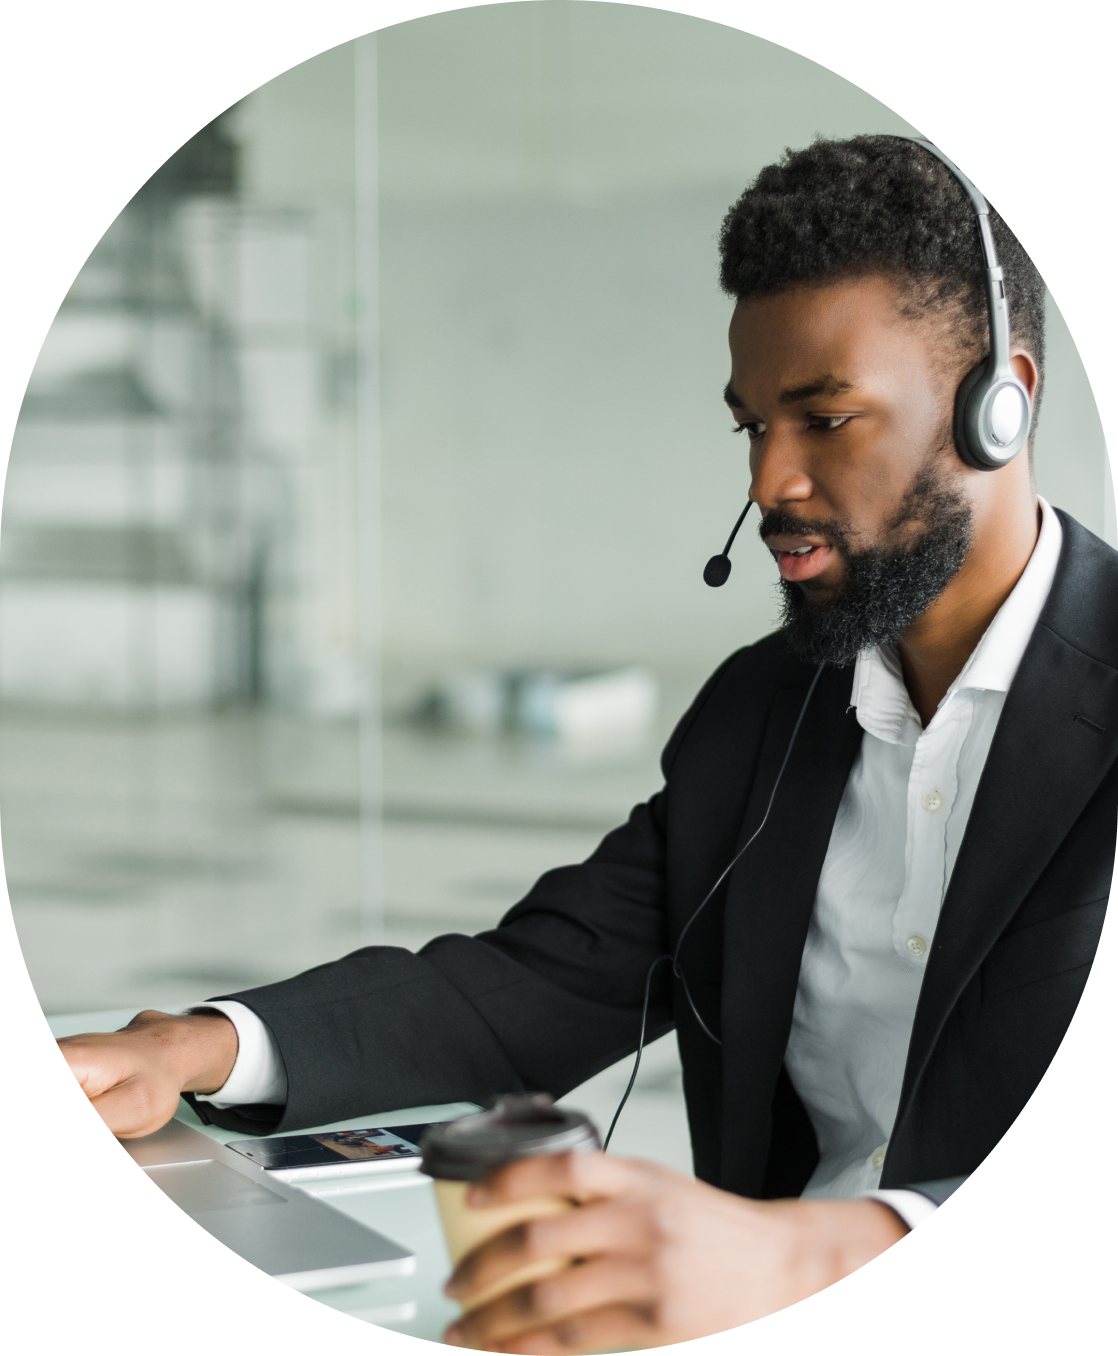
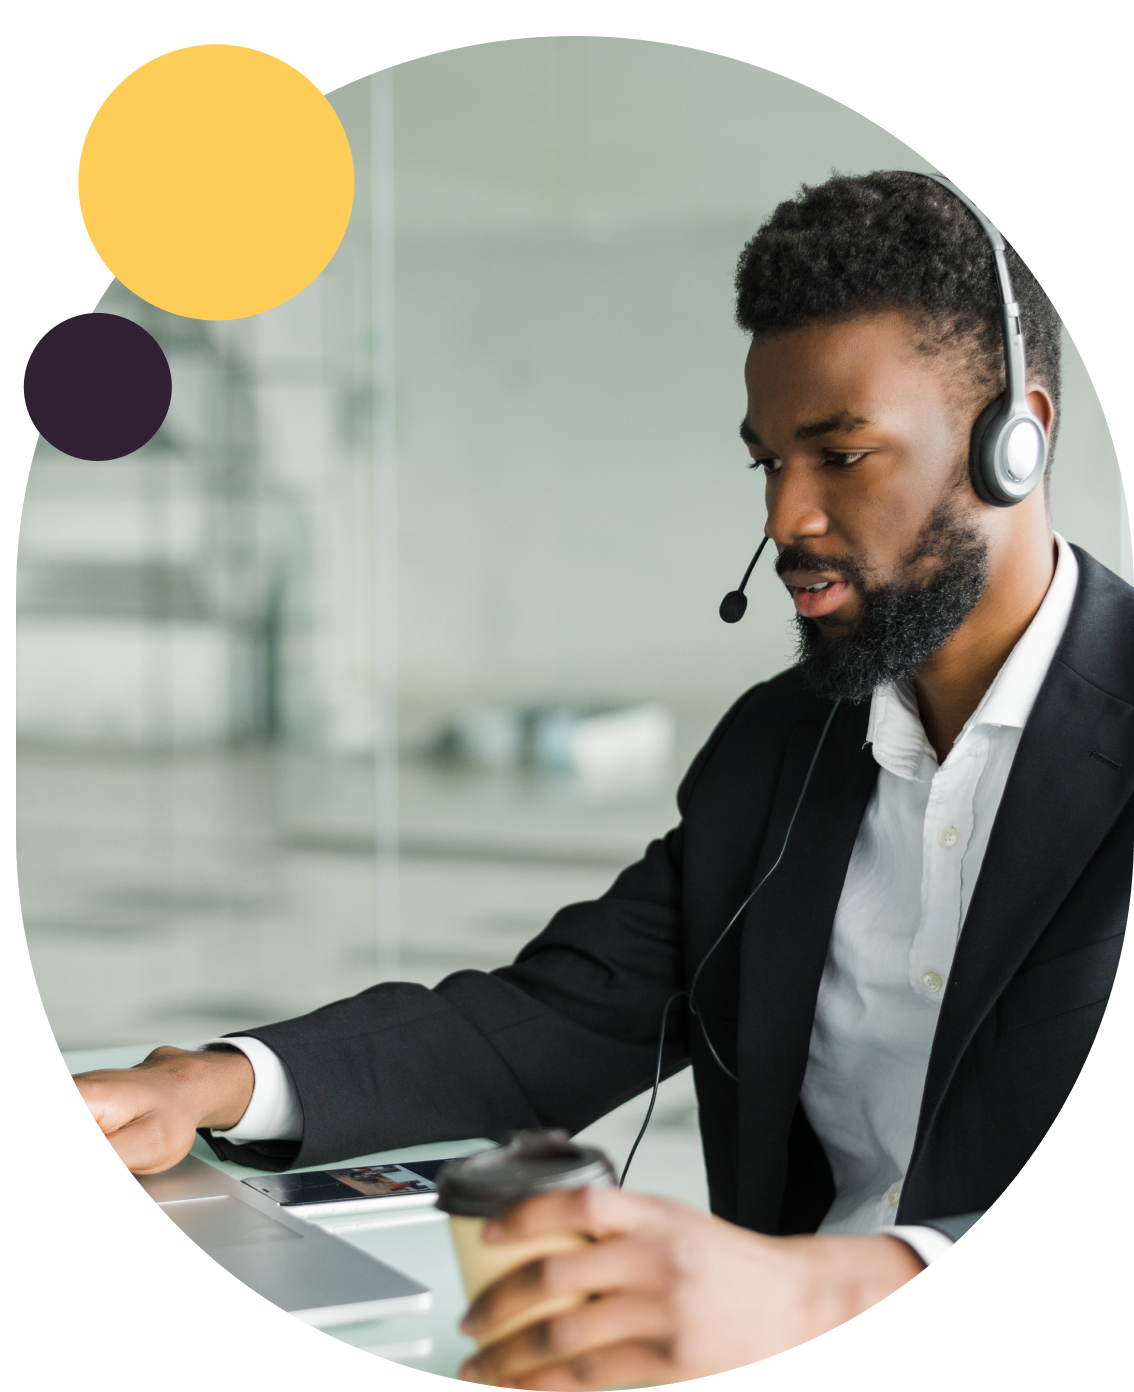
first review changes

diff --git a/src/App.css b/src/App.css
@@ -114,7 +114,7 @@ nav {
 .logo-img {
   width: 136px;
   height: 40px;
-  margin-left: 28%;
+  margin-left: 35px;
 }
 .nav-link {
   color: #cfc5ef;
@@ -136,15 +136,15 @@ nav {
   color: #fff;
 }
 .get-started {
-  width: 155px;
-  height: 42px;
+  width: 120px;
+  height: 38px;
   background: #ffffff;
   box-shadow: 0px 4px 12px rgba(0, 0, 0, 0.1);
   border-radius: 10px;
   border: none;
   cursor: pointer;
   outline: none;
-  font-size: 20px;
+  font-size: 16px;
 }
 .get-started:hover {
   border: solid 1px #fff;
@@ -209,7 +209,7 @@ nav {
   display: grid;
   grid-template-columns: (5fr, 7fr);
   height: auto;
-  padding-bottom: 12%;
+  padding-bottom: 4%;
 }
 
 @media (min-width: 800px) {
@@ -222,7 +222,7 @@ nav {
   width: 100%;
   padding-top: 25%;
   padding-left: 10%;
-  font-size: 300%;
+  font-size: 280%;
   font-style: normal;
   font-weight: 600;
   line-height: 63px;
@@ -231,9 +231,12 @@ nav {
   justify-self: center;
   color: #322305;
 }
+.hero4{
+  padding-top: 200px;
+}
 .hero_1 {
-  width: 75%;
-  height: 400px;
+  width: 90%;
+  height: 520px;
   padding-left: 10%;
   margin-top: 80px;
 }
@@ -248,7 +251,7 @@ nav {
   margin-bottom: 4rem;
 }
 .client-say {
-  font-size: 2.5rem;
+  font-size: 2rem;
   color: #322035;
 }
 .our-word {
@@ -285,7 +288,7 @@ nav {
   padding-left: 10%;
 }
 .banner-btn {
-  width: 155px;
+  width: 120px;
   height: 42px;
   margin-left: 10%;
   margin-top: 10px;
@@ -295,13 +298,22 @@ nav {
   border: none;
   cursor: pointer;
   outline: none;
-  font-size: 20px;
+  font-size: 16px;
 }
 .banner-text {
   width: 100%;
   padding-right: 0%;
 }
-
+.aesthetic2{
+  position: absolute;
+  right: 0;
+  /* top: 140%; */
+}
+@media(max-width: 800px){
+  .aesthetic2{
+    top: 200%;
+  }
+}
 @media (max-width: 800px) {
   .turn {
     font-size: 2rem;
@@ -331,6 +343,7 @@ nav {
   padding-left: 7%;
   padding-top: 50px;
   padding-bottom: 30px;
+  color: #322035;
 }
 @media (max-width: 700px) {
   .about-us h1,
@@ -534,6 +547,7 @@ main {
 .question h4 {
   text-transform: none;
   line-height: 1.5;
+  color: #322035;
 }
 .question p {
   color: var(--clr-grey-3);
@@ -818,7 +832,7 @@ main {
   margin-right: auto;
 }
 .container {
-  width: 45vw;
+  width: 40vw;
   margin: auto;
 }
 .review {
@@ -869,6 +883,7 @@ main {
 .author {
   padding-top: 1.8rem;
   width: 100px;
+  color: #322035;
 }
 .card-avatar {
   width: 100px;
@@ -880,6 +895,7 @@ main {
   margin-bottom: 0.75rem;
   text-align: left;
   line-height: 35px;
+  color: #322035;
 }
 .prev-btn,
 .next-btn {

diff --git a/src/Home.js b/src/Home.js
@@ -41,14 +41,9 @@ const Home = ()=>{
           <div className="banner-img">
             <img src={hero_2} className="hero_1 hero_2" alt="hero-1" />
           </div>
-          <div
-            className="banner-text"
-            style={{
-              background: `url(${Aestheticdesign2})no-repeat`,
-              marginTop: "20px",
-            }}
-          >
-            <h3 className="turn">Go Live to teach your Students with ease</h3>
+          <div className="banner-text">
+            <img src={Aestheticdesign2} alt="" className="aesthetic2" />
+            <h3 className="turn" >Go Live to teach your Students with ease</h3>
             <p className="turn-paragraph">
               Our Platform gives you the ability to live stream lectures to your
               students, also the videos would be made avialiable on the platform
@@ -86,8 +81,15 @@ const Home = ()=>{
         <section className="container">
           <div className="title">
             <h2 className="client-say">What Our Client Say</h2>
-            <img src={Underline} alt="" className="img-underline" style={{width: "50%"}}/>
-            <p className="our-word">Our word we keep and our word speak for us.</p>
+            <img
+              src={Underline}
+              alt=""
+              className="img-underline"
+              style={{ width: "50%" }}
+            />
+            <p className="our-word">
+              Our word we keep and our word speak for us.
+            </p>
           </div>
           <Review />
         </section>
@@ -98,14 +100,8 @@ const Home = ()=>{
           <div className="banner-img">
             <img src={hero4} className="hero_1 hero_2" alt="hero-1" />
           </div>
-          <div
-            className="banner-text"
-            style={{
-              background: `url(${Aestheticdesign2})no-repeat`,
-              marginTop: "20px",
-            }}
-          >
-            <h3 className="turn">Let’s Build Something Great Together</h3>
+          <div className="banner-text">
+            <h3 className="turn stylish-height">Let’s Build Something Great Together</h3>
             <p className="turn-paragraph">
               The Success of your students is your Success, and your Success is
               our Success. Join Reatent and lets win together

diff --git a/src/Contact.js b/src/Contact.js
@@ -7,8 +7,6 @@ import { AiFillLinkedin } from "react-icons/ai";
 import { AiFillFacebook } from "react-icons/ai";
 import { AiFillInstagram } from "react-icons/ai";
 import { AiFillTwitterCircle } from "react-icons/ai";
-import Ellipse24 from "./images/Ellipse24.png";
-import Ellipse25 from "./images/Ellipse25.png";
 
 const Contact = ()=>{
     return (
@@ -57,18 +55,7 @@ const Contact = ()=>{
           <div className="contact-img">
             <div className="img-box">
               <img src={ContactUs} alt="contact us" />
-              <img
-                src={Ellipse24}
-                alt=""
-                className="elipse4"
-                style={{ width: "15%", height: "18%" }}
-              />
-              <img
-                src={Ellipse25}
-                alt=""
-                className="elipse5"
-                style={{ width: "10%", height: "13%" }}
-              />
+
             </div>
           </div>
         </div>
